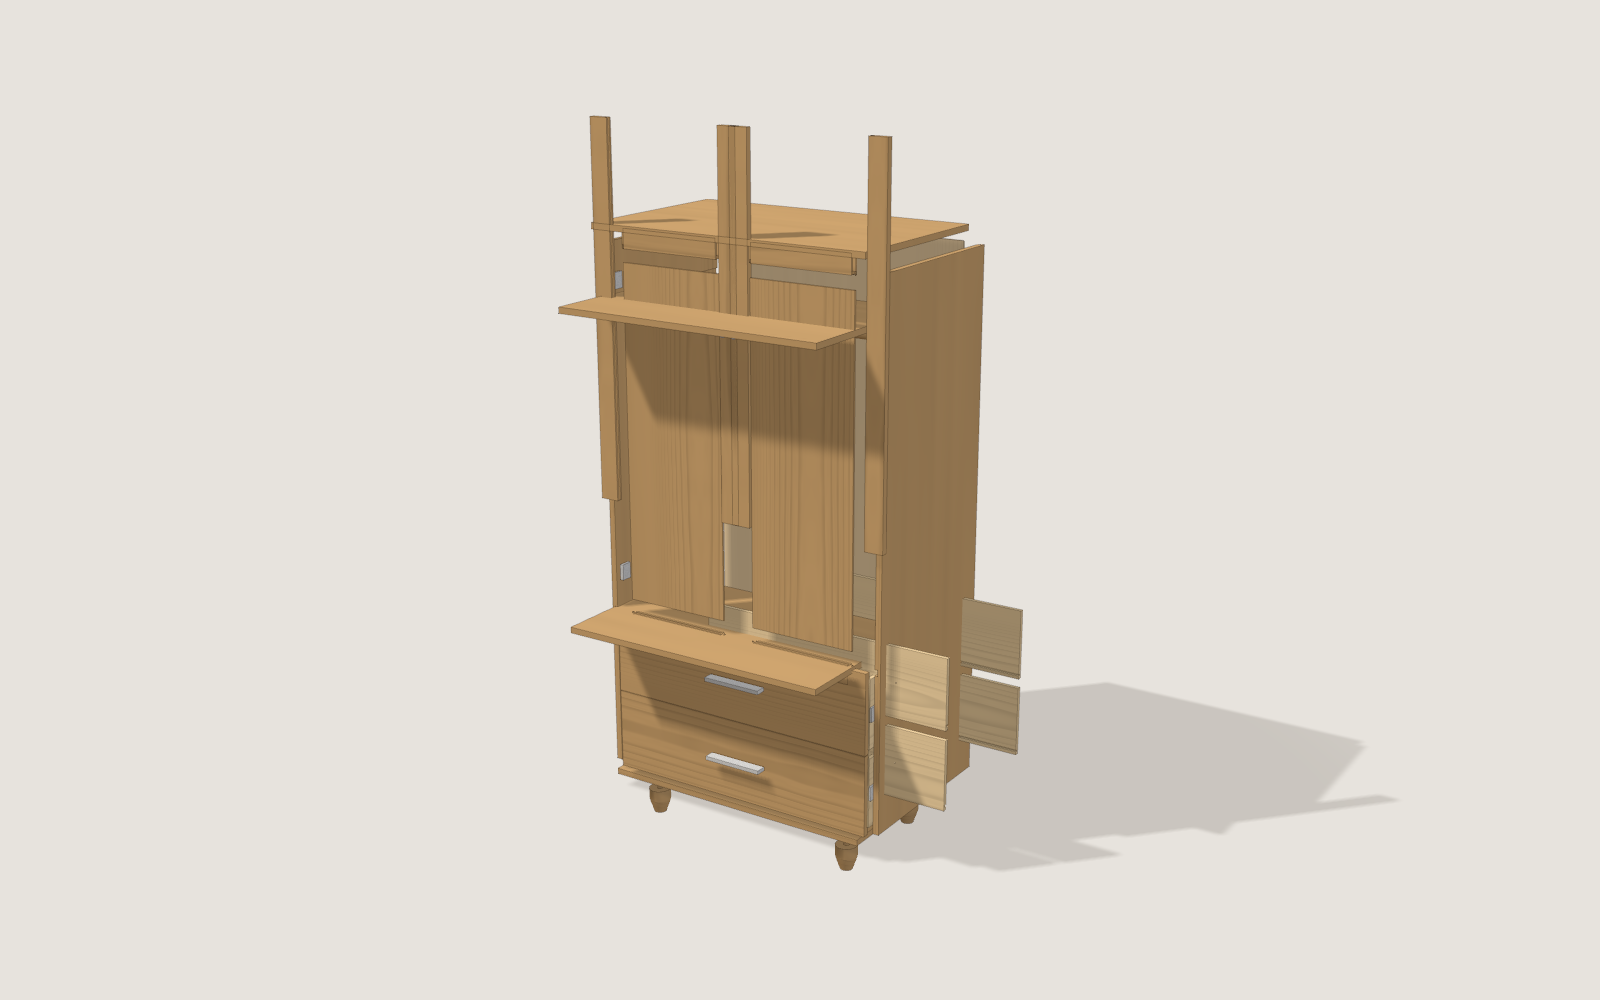
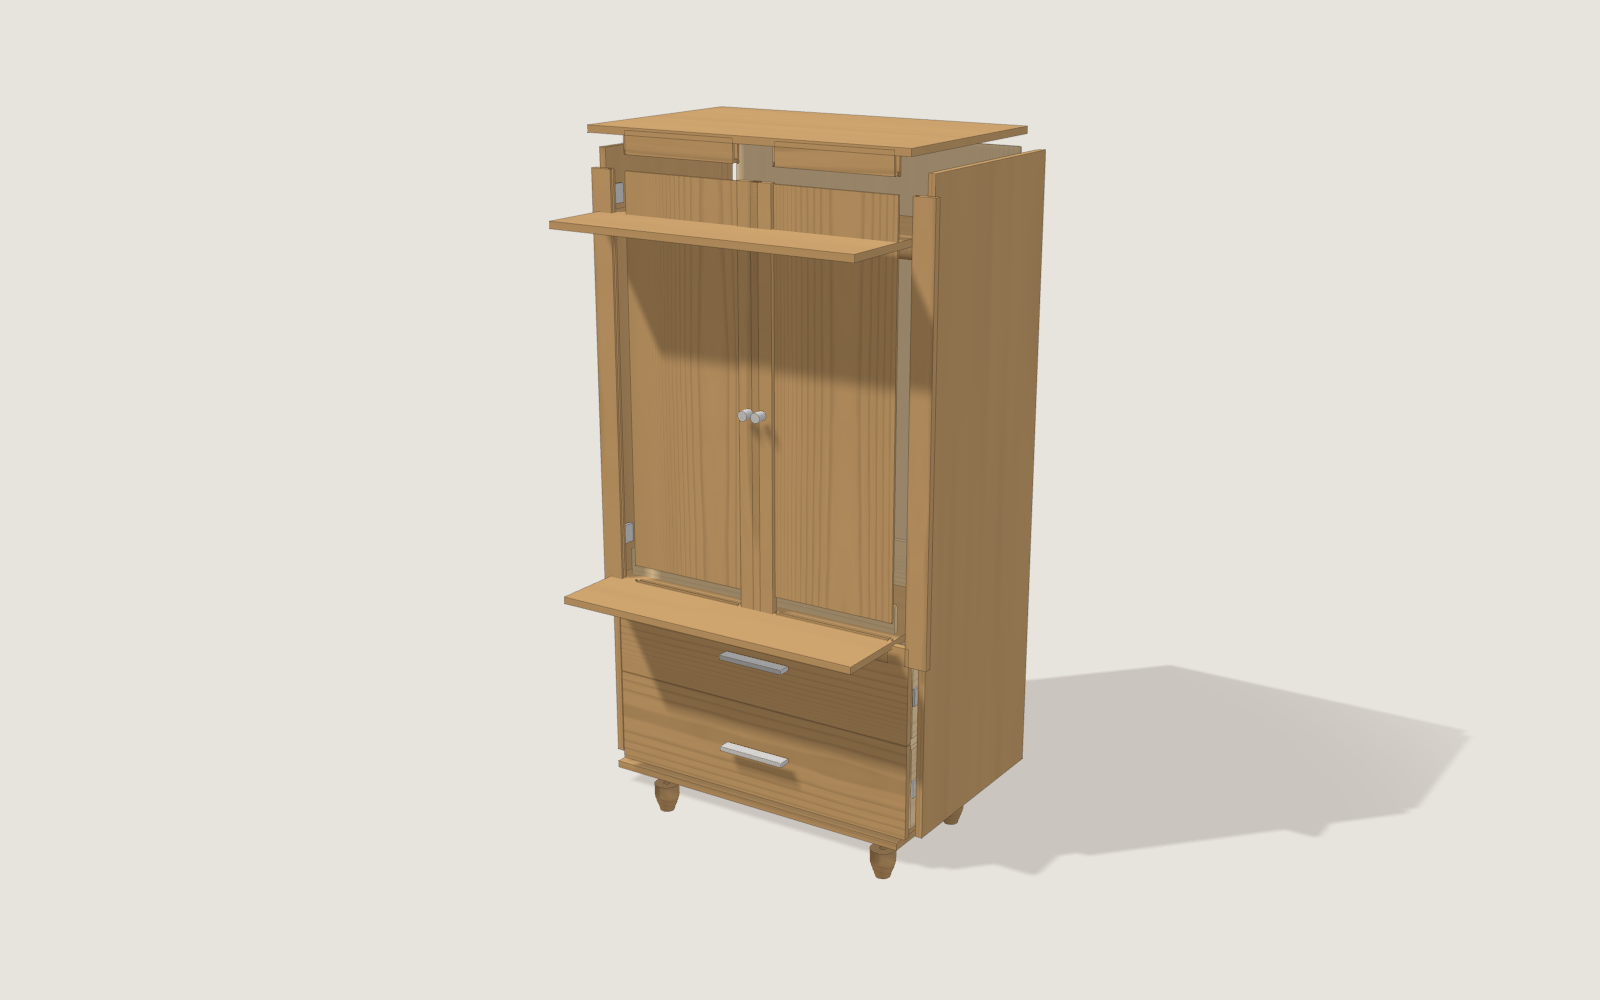
fix(scene): parts centred on a held part don't fly out of it
A door's stiles sit either side of the panel held in their grooves, so
along the panel's length they have no side to move to; they now stay
instead of all falling back to moving up.

Changed region(s): [[0.3438, 0.093, 0.9062, 0.899]]

diff --git a/crates/stave-scene/src/graph.rs b/crates/stave-scene/src/graph.rs
@@ -698,7 +698,12 @@ fn explode_offsets(design: &SolvedDesign) -> Vec<Vec3> {
             continue;
         };
         if pinned(m.mover) {
+            // A partner centred on the held part along the step (a stile
+            // either side of a panel's groove) has no side to move to.
             for partner in m.partners.iter().filter_map(|p| design.part(*p)) {
+                if (middle(partner) - middle(mover)).dot(m.direction).abs() < 1.0 {
+                    continue;
+                }
                 let direction = away_from(m.direction, middle(partner), middle(mover));
                 add(partner, direction, m.mover);
             }
